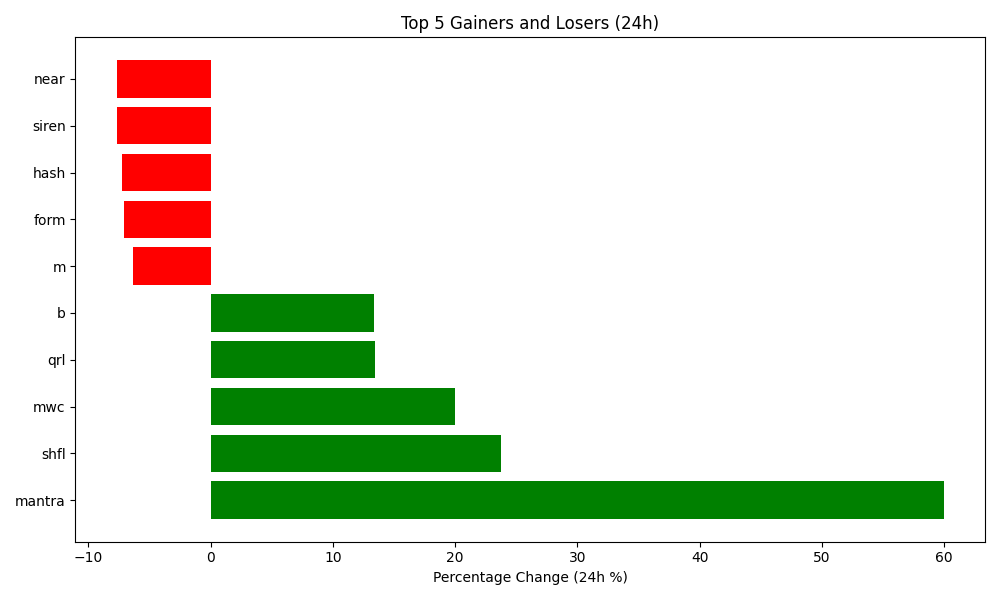
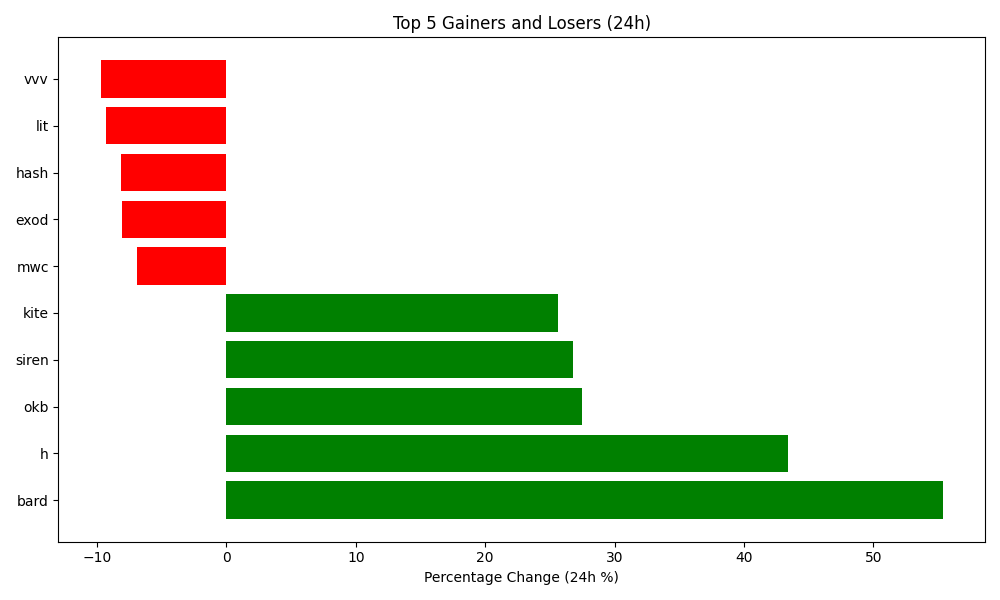
Auto-update crypto data and plot

diff --git a/README.md b/README.md
@@ -4,7 +4,7 @@ Author: Hitesh Agrawal
 This repository automatically tracks the top 5 gaining, top 5 losing, and top 5 highest volume cryptocurrencies in the last 24 hours using the CoinGecko API, Python, Matplotlib, and GitHub Actions updates the below content everyday at midnight.
 
 <!-- START_DYNAMIC_CONTENT -->
-Last updated: 2026-03-05 01:24 UTC
+Last updated: 2026-03-06 01:26 UTC
 
 ![Crypto Movers Plot](crypto_movers_plot.png)
 
@@ -12,33 +12,33 @@ Last updated: 2026-03-05 01:24 UTC
 
 | Rank | Coin | Price Change (24h %) | Volume (USD) | Current Price (USD) |
 | :--: | :--: | :------------------: | :----------: | :-----------------: |
-| 1 | mantra | 59.96% | $327,119,325 | $0.0238 |
-| 2 | shfl | 23.77% | $716,364 | $0.3106 |
-| 3 | mwc | 19.99% | $74,921 | $11.7600 |
-| 4 | qrl | 13.45% | $103,116 | $1.6200 |
-| 5 | b | 13.40% | $9,548,709 | $0.2228 |
+| 1 | bard | 55.37% | $343,126,566 | $1.6700 |
+| 2 | h | 43.36% | $96,265,423 | $0.1793 |
+| 3 | okb | 27.44% | $395,538,948 | $99.2400 |
+| 4 | siren | 26.80% | $30,657,776 | $0.4622 |
+| 5 | kite | 25.61% | $153,103,061 | $0.2807 |
 
 
 **👇 Top 5 Losers (24h)**
 
 | Rank | Coin | Price Change (24h %) | Volume (USD) | Current Price (USD) |
 | :--: | :--: | :------------------: | :----------: | :-----------------: |
-| 1 | near | -7.66% | $380,475,166 | $1.2700 |
-| 2 | siren | -7.64% | $36,085,651 | $0.3664 |
-| 3 | hash | -7.26% | $26,330 | $0.0150 |
-| 4 | form | -7.09% | $57,176,861 | $0.3033 |
-| 5 | m | -6.32% | $8,990,636 | $1.3500 |
+| 1 | vvv | -9.72% | $36,162,573 | $6.1000 |
+| 2 | lit | -9.33% | $28,718,511 | $1.2200 |
+| 3 | hash | -8.14% | $15,096 | $0.0138 |
+| 4 | exod | -8.06% | $0 | $11.1800 |
+| 5 | mwc | -6.90% | $136,730 | $10.8600 |
 
 
 **💎 Top 5 by Trade Volume (24h)**
 
 | Rank | Coin | Price Change (24h %) | Volume (USD) | Current Price (USD) |
 | :--: | :--: | :------------------: | :----------: | :-----------------: |
-| 1 | usdt | 0.01% | $124,194,655,405 | $1.0000 |
-| 2 | btc | 7.18% | $82,591,942,318 | $72,889.0000 |
-| 3 | eth | 7.67% | $34,604,125,576 | $2,124.1100 |
-| 4 | usdc | 0.01% | $11,837,694,519 | $1.0000 |
-| 5 | sol | 4.70% | $7,426,122,253 | $90.8100 |
+| 1 | usdt | -0.03% | $83,012,306,927 | $1.0000 |
+| 2 | btc | -2.87% | $54,107,484,769 | $70,840.0000 |
+| 3 | eth | -2.35% | $21,993,651,586 | $2,076.3400 |
+| 4 | usdc | -0.00% | $13,457,881,110 | $1.0000 |
+| 5 | sol | -2.20% | $4,646,087,973 | $88.6600 |
 
 
 <!-- END_DYNAMIC_CONTENT -->
